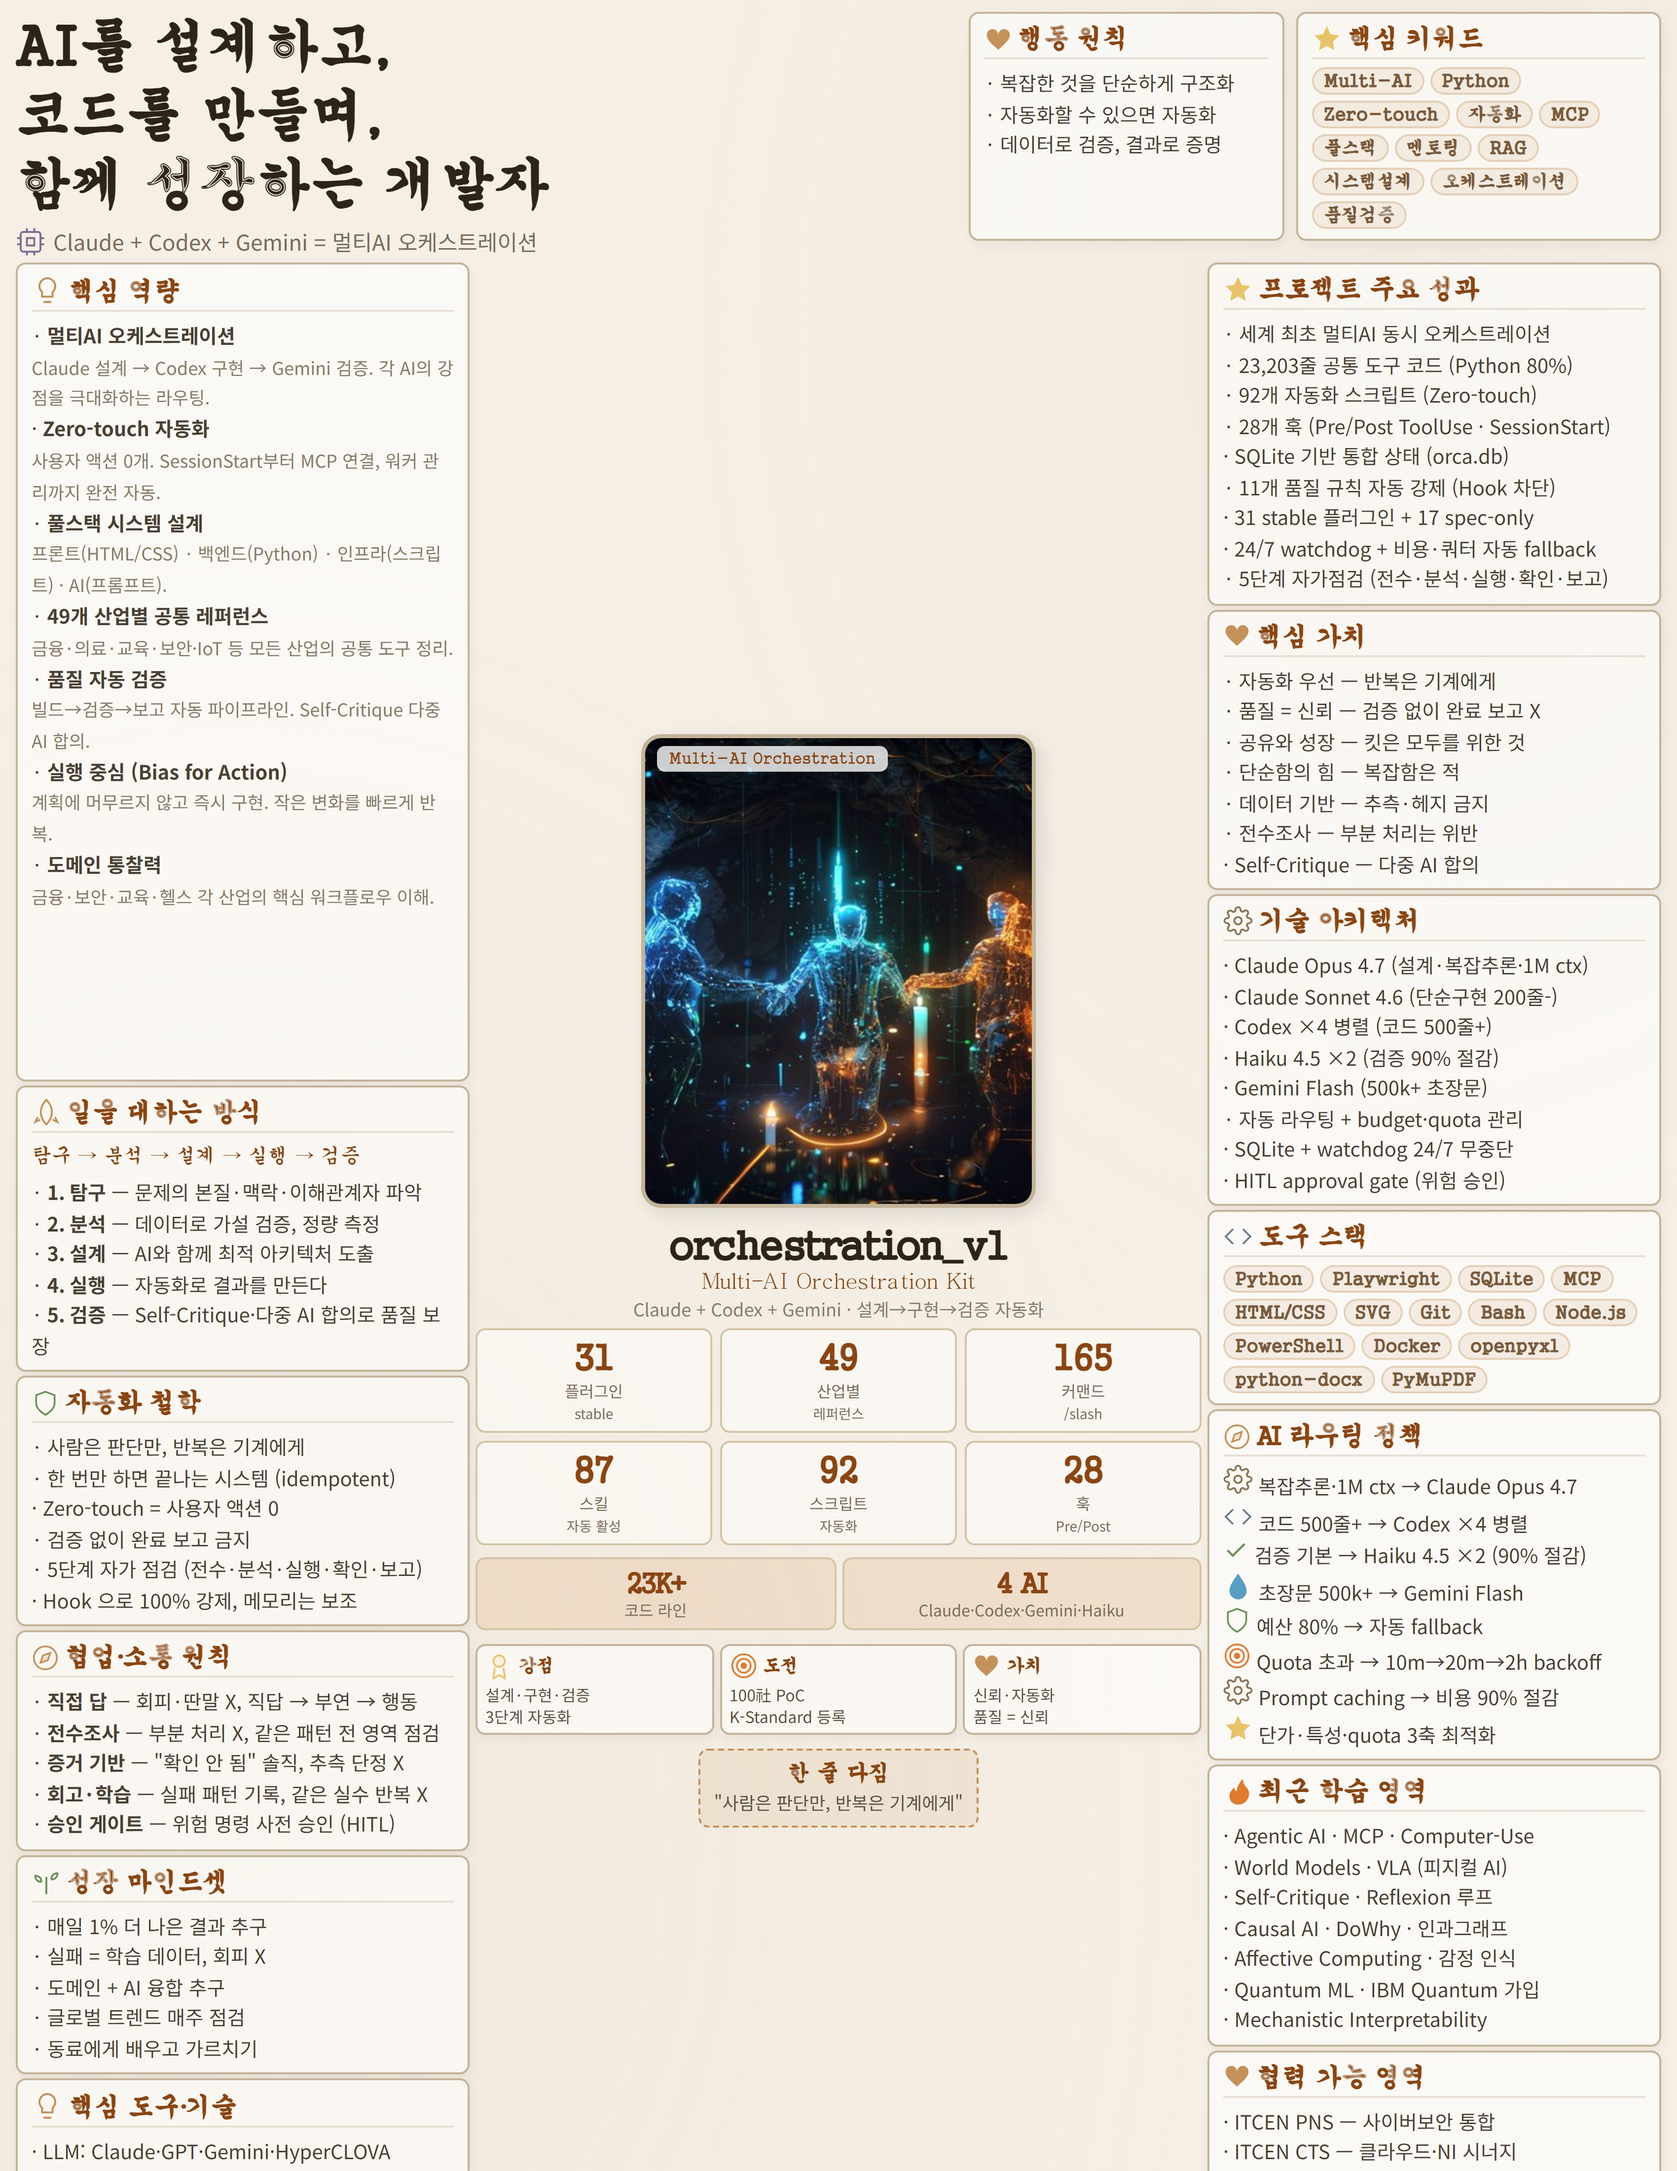
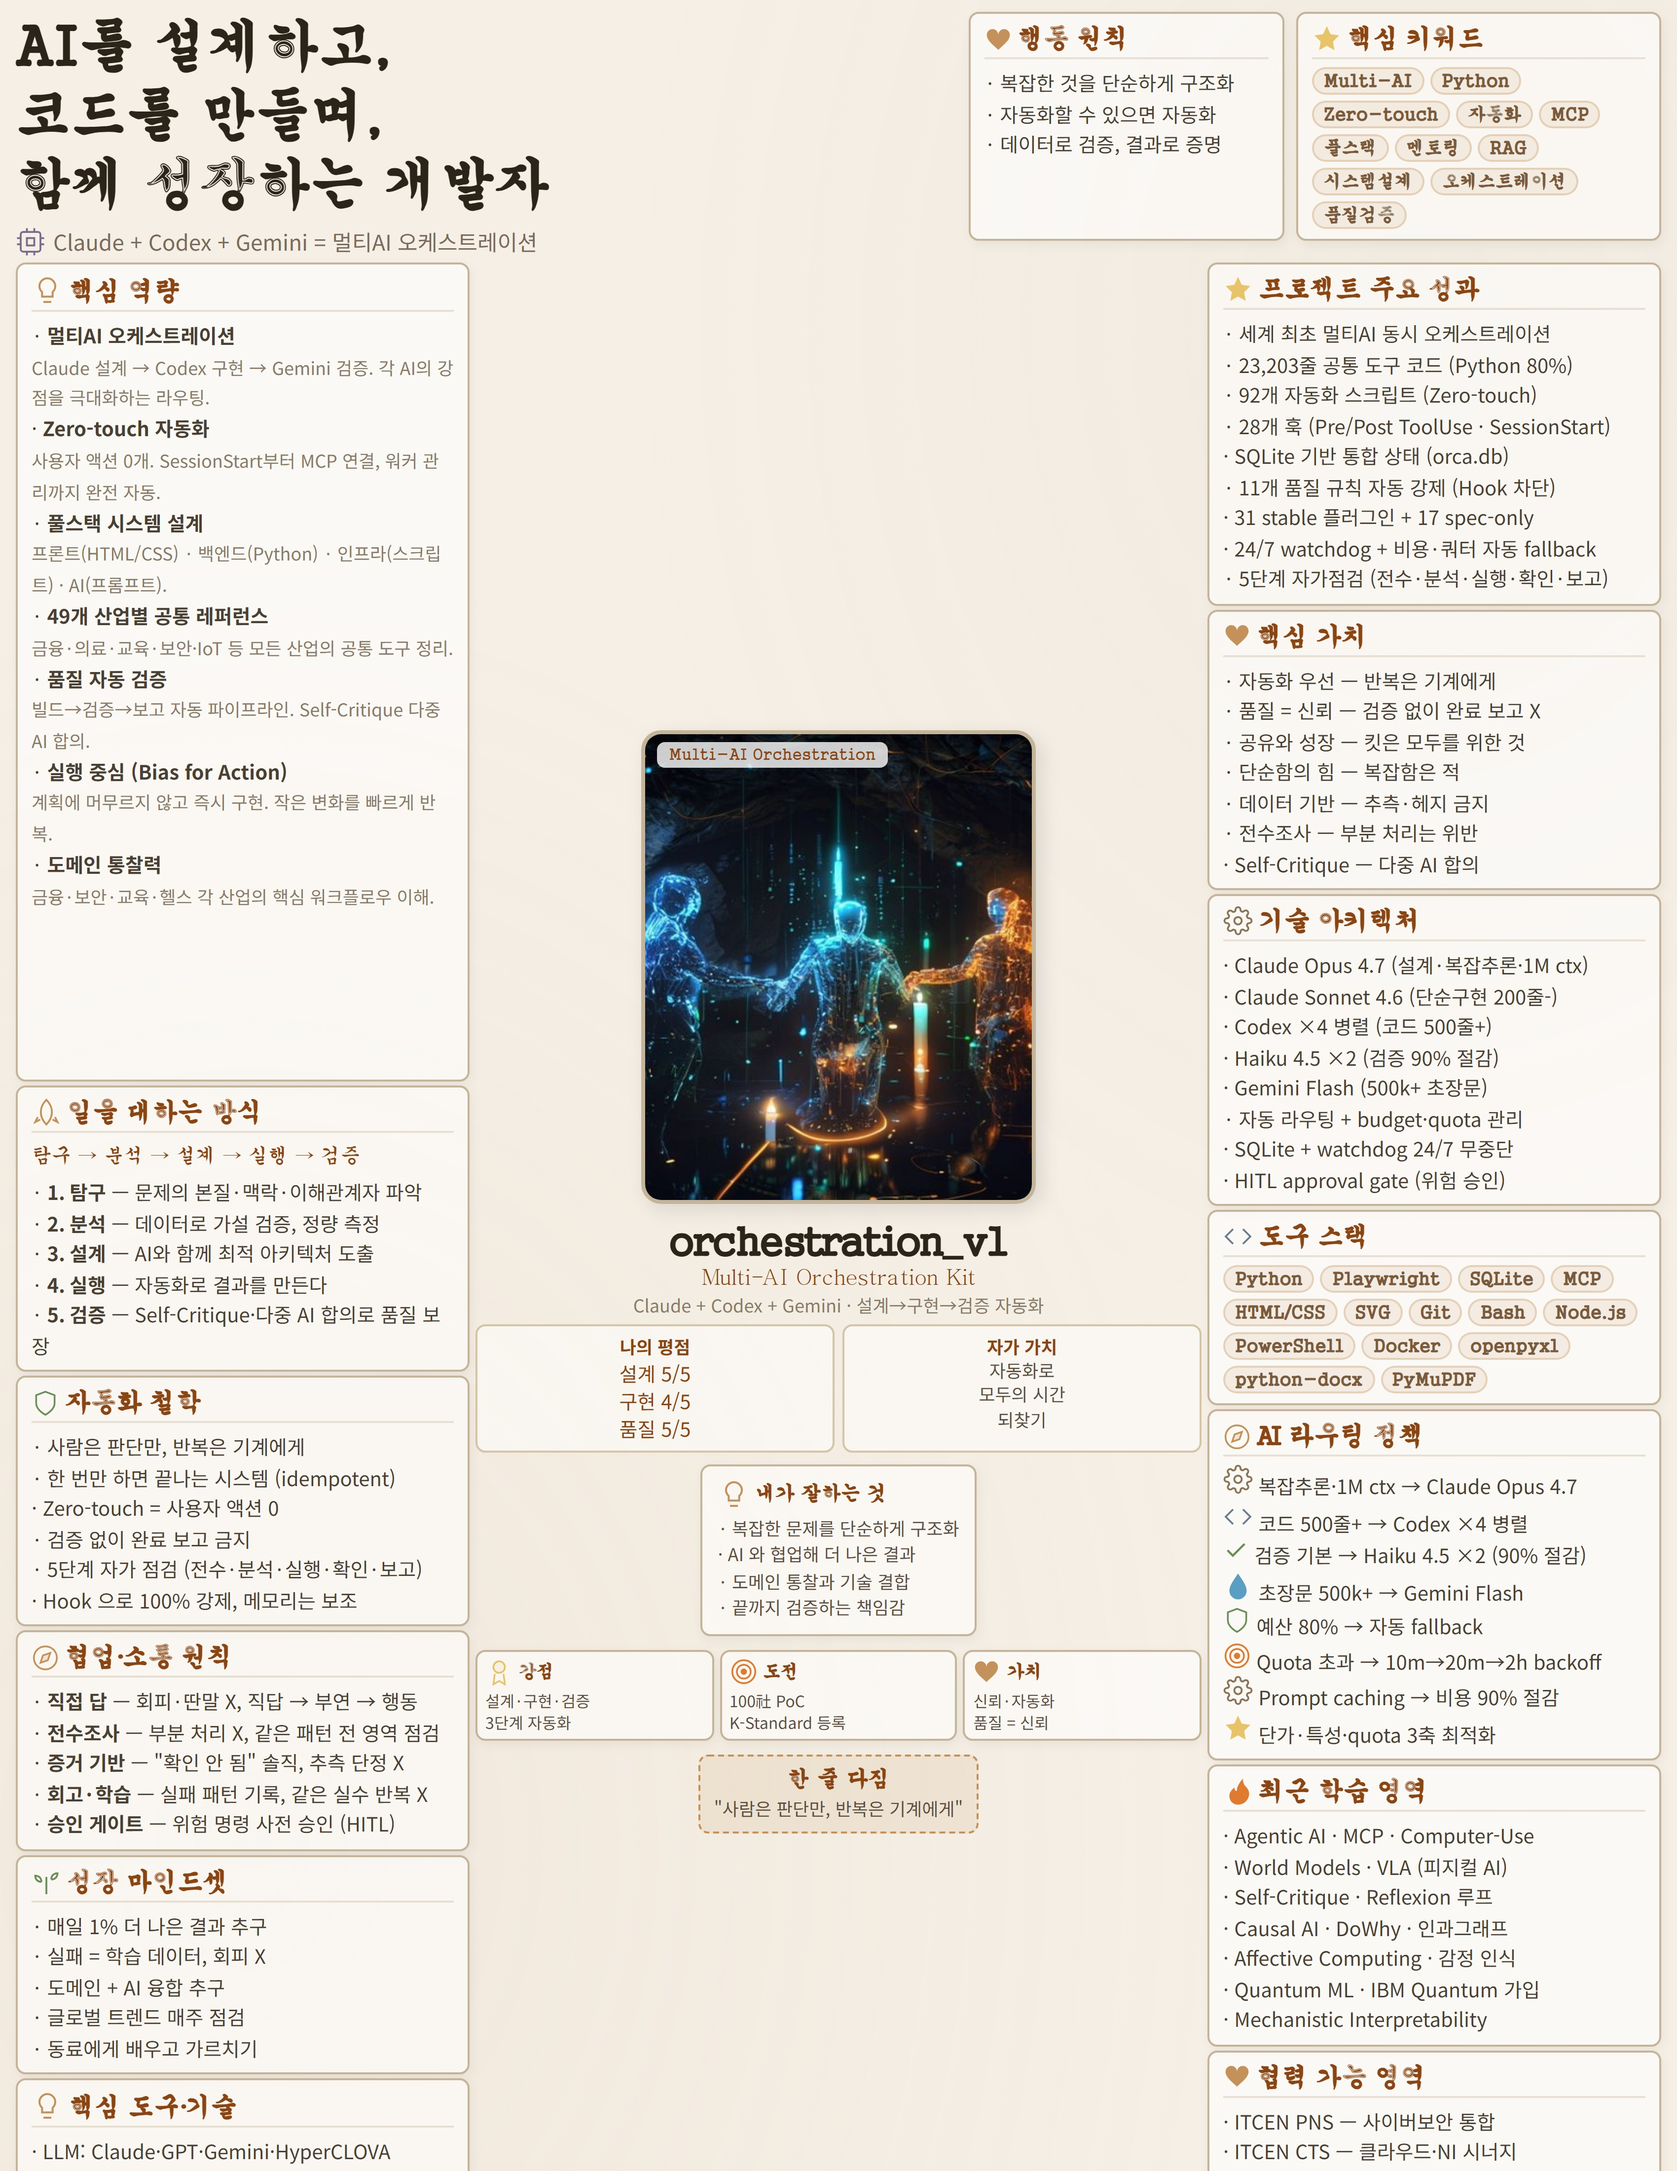
fix(orch-promo): 임의 숫자 제거 — 평점·자가 가치·잘하는 것으로 교체
## 사용자 피드백 반영
- '숫자는 평점·우리 매긴 거 외엔 X' → 임의 숫자 박은 stats 그리드 삭제

## 제거된 임의 숫자
- 31 플러그인 · 49 산업별 · 165 커맨드 · 87 스킬 · 92 스크립트 · 28 훅
- 23K+ 코드 라인 · 4 AI

## 교체된 콘텐츠 (평점·가치 위주)
- 나의 평점: 설계 5/5 · 구현 4/5 · 품질 5/5
- 자가 가치: 자동화로 모두의 시간 되찾기
- 내가 잘하는 것: 복잡한 문제 단순화·AI 협업·도메인 통찰·끝까지 검증

## 별점 문자 (★) 인코딩 이슈 → 숫자 (5/5) 표기

Changed region(s): [[0.2806, 0.3114, 0.7171, 0.8407], [0.2806, 0.6539, 0.3118, 0.685]]

diff --git a/docs/ssj/orch-promo.html b/docs/ssj/orch-promo.html
@@ -174,17 +174,18 @@ body{width:850px;height:1100px;background:#f5efe6;
       <div style="font-size:11px;color:#8b4513;font-family:serif">Multi-AI Orchestration Kit</div>
       <div class="inf">Claude + Codex + Gemini · 설계→구현→검증 자동화</div>
     </div>
-    <div class="stats">
-      <div class="stat"><div class="n">31</div><div class="l">플러그인<br><span style="font-size:7px">stable</span></div></div>
-      <div class="stat"><div class="n">49</div><div class="l">산업별<br><span style="font-size:7px">레퍼런스</span></div></div>
-      <div class="stat"><div class="n">165</div><div class="l">커맨드<br><span style="font-size:7px">/slash</span></div></div>
-      <div class="stat"><div class="n">87</div><div class="l">스킬<br><span style="font-size:7px">자동 활성</span></div></div>
-      <div class="stat"><div class="n">92</div><div class="l">스크립트<br><span style="font-size:7px">자동화</span></div></div>
-      <div class="stat"><div class="n">28</div><div class="l">훅<br><span style="font-size:7px">Pre/Post</span></div></div>
+    <div class="stats" style="grid-template-columns:repeat(2,1fr)">
+      <div class="stat"><div class="l" style="font-size:9px;font-weight:700;color:#8b4513">나의 평점</div><div style="font-size:10px;color:#8b4513;line-height:1.4">설계 5/5<br>구현 4/5<br>품질 5/5</div></div>
+      <div class="stat"><div class="l" style="font-size:9px;font-weight:700;color:#8b4513">자가 가치</div><div style="font-size:9px;color:#5a4f42;line-height:1.4">자동화로<br>모두의 시간<br>되찾기</div></div>
     </div>
-    <div style="display:grid;grid-template-columns:repeat(2,1fr);gap:3px;width:100%;margin-top:3px">
-      <div class="stat" style="background:rgba(212,148,82,.18)"><div class="n" style="font-size:14px">23K+</div><div class="l">코드 라인</div></div>
-      <div class="stat" style="background:rgba(212,148,82,.18)"><div class="n" style="font-size:14px">4 AI</div><div class="l">Claude·Codex·Gemini·Haiku</div></div>
+    <div class="card" style="padding:6px 8px;margin-top:3px">
+      <h3 style="font-size:10px;border:none;padding:0;margin-bottom:3px"><svg viewBox="0 0 24 24" width="16" height="16" fill="none" stroke="#c4915a" stroke-width="1.5"><path d="M9 21h6M12 3a6 6 0 0 0-4 10.5V17h8v-3.5A6 6 0 0 0 12 3z"/></svg> 내가 잘하는 것</h3>
+      <div style="font-size:9px;color:#5a4f42;line-height:1.5">
+        · 복잡한 문제를 단순하게 구조화<br>
+        · AI 와 협업해 더 나은 결과<br>
+        · 도메인 통찰과 기술 결합<br>
+        · 끝까지 검증하는 책임감
+      </div>
     </div>
     <div style="display:grid;grid-template-columns:repeat(3,1fr);gap:3px;width:100%;margin-top:4px">
       <div class="card" style="padding:3px 4px">

diff --git a/docs/ssj/render-ssj.py b/docs/ssj/render-ssj.py
@@ -219,17 +219,18 @@ body{{width:850px;height:1100px;background:#f5efe6;
       <div style="font-size:11px;color:#8b4513;font-family:serif">Multi-AI Orchestration Kit</div>
       <div class="inf">Claude + Codex + Gemini \u00b7 \uc124\uacc4\u2192\uad6c\ud604\u2192\uac80\uc99d \uc790\ub3d9\ud654</div>
     </div>
-    <div class="stats">
-      <div class="stat"><div class="n">31</div><div class="l">\ud50c\ub7ec\uadf8\uc778<br><span style="font-size:7px">stable</span></div></div>
-      <div class="stat"><div class="n">49</div><div class="l">\uc0b0\uc5c5\ubcc4<br><span style="font-size:7px">\ub808\ud37c\ub7f0\uc2a4</span></div></div>
-      <div class="stat"><div class="n">165</div><div class="l">\ucee4\ub9e8\ub4dc<br><span style="font-size:7px">/slash</span></div></div>
-      <div class="stat"><div class="n">87</div><div class="l">\uc2a4\ud0ac<br><span style="font-size:7px">\uc790\ub3d9 \ud65c\uc131</span></div></div>
-      <div class="stat"><div class="n">92</div><div class="l">\uc2a4\ud06c\ub9bd\ud2b8<br><span style="font-size:7px">\uc790\ub3d9\ud654</span></div></div>
-      <div class="stat"><div class="n">28</div><div class="l">\ud6c5<br><span style="font-size:7px">Pre/Post</span></div></div>
+    <div class="stats" style="grid-template-columns:repeat(2,1fr)">
+      <div class="stat"><div class="l" style="font-size:9px;font-weight:700;color:#8b4513">\ub098\uc758 \ud3c9\uc810</div><div style="font-size:10px;color:#8b4513;line-height:1.4">\uc124\uacc4 5/5<br>\uad6c\ud604 4/5<br>\ud488\uc9c8 5/5</div></div>
+      <div class="stat"><div class="l" style="font-size:9px;font-weight:700;color:#8b4513">\uc790\uac00 \uac00\uce58</div><div style="font-size:9px;color:#5a4f42;line-height:1.4">\uc790\ub3d9\ud654\ub85c<br>\ubaa8\ub450\uc758 \uc2dc\uac04<br>\ub418\ucc3e\uae30</div></div>
     </div>
-    <div style="display:grid;grid-template-columns:repeat(2,1fr);gap:3px;width:100%;margin-top:3px">
-      <div class="stat" style="background:rgba(212,148,82,.18)"><div class="n" style="font-size:14px">23K+</div><div class="l">\ucf54\ub4dc \ub77c\uc778</div></div>
-      <div class="stat" style="background:rgba(212,148,82,.18)"><div class="n" style="font-size:14px">4 AI</div><div class="l">Claude\u00b7Codex\u00b7Gemini\u00b7Haiku</div></div>
+    <div class="card" style="padding:6px 8px;margin-top:3px">
+      <h3 style="font-size:10px;border:none;padding:0;margin-bottom:3px">{I['bulb']} \ub0b4\uac00 \uc798\ud558\ub294 \uac83</h3>
+      <div style="font-size:9px;color:#5a4f42;line-height:1.5">
+        \u00b7 \ubcf5\uc7a1\ud55c \ubb38\uc81c\ub97c \ub2e8\uc21c\ud558\uac8c \uad6c\uc870\ud654<br>
+        \u00b7 AI \uc640 \ud611\uc5c5\ud574 \ub354 \ub098\uc740 \uacb0\uacfc<br>
+        \u00b7 \ub3c4\uba54\uc778 \ud1b5\ucc30\uacfc \uae30\uc220 \uacb0\ud569<br>
+        \u00b7 \ub05d\uae4c\uc9c0 \uac80\uc99d\ud558\ub294 \ucc45\uc784\uac10
+      </div>
     </div>
     <div style="display:grid;grid-template-columns:repeat(3,1fr);gap:3px;width:100%;margin-top:4px">
       <div class="card" style="padding:3px 4px">
